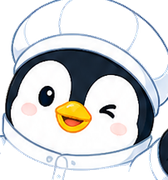
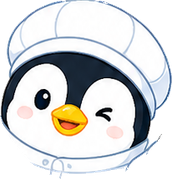
15.227 방귀니 그림 위 파란 줄 없앰(다시 자름)
Claude-Session: https://claude.ai/code/session_01FcimMaGiTfGzNGmphjMn1u

diff --git a/work-process-app/public/app.js b/work-process-app/public/app.js
@@ -1,5 +1,5 @@
 // 앱 변경 커밋마다 AGENTS.md의 버전 규칙에 따라 올립니다.
-const APP_VERSION = '15.226';
+const APP_VERSION = '15.227';
 // 서울세미텍 시스템 프런트엔드 (빌드 도구 없음, 해시 라우팅)
 'use strict';
 

diff --git a/work-process-app/AGENTS.md b/work-process-app/AGENTS.md
@@ -1095,3 +1095,5 @@ INVITE_CODE=local-test-code npm start
 - 15.225 리본 고양이 스킨 「캐릭터 그림 바꾸기」: 화면 설정(리본 고양이 스킨일 때만 보임)에서 그림 파일(PNG·JPG·WEBP·GIF, 5MB 이하)을 고르면 256px로 줄여 이 기기 브라우저(localStorage wpa:skin-face)에만 저장하고 --ct-face를 그 그림으로 바꿈. 서버·계정 설정·저장소에는 올리지 않음(외부 캐릭터 그림을 소스에 넣지 않음). 「기본 그림」으로 되돌림.
 
 - 15.226 스킨: 🐧 방귀니 추가(서울세미텍 자체 캐릭터). 그림은 회사 「에너지 다이어트 10」 포스터의 방귀니 얼굴을 잘라 배경을 투명하게 한 public/assets/skin-penguin.png(build.mjs·local.mjs 목록에 등록). 하늘색→파랑 머리줄, 하늘·초록 띠, 파랑·초록 동그라미 제목 표시, 옅은 하늘색 바탕. 리본 고양이는 「💗 커스텀 캐릭터」로 이름을 바꾸고(저장 키는 cat 그대로) 기본 그림을 고양이 대신 하트로, 「캐릭터 그림 바꾸기」로 올린 그림이 있으면 그 그림으로 교체.
+
+- 15.227 방귀니 그림 다시 자름: 위쪽에 같이 잘려 들어온 포스터 제목 띠의 파란 줄을 지우고, 모자 윗부분이 잘리지 않게 더 넓게 잘라 얼굴 둘레 밖(엄지·선풍기)은 투명하게.
